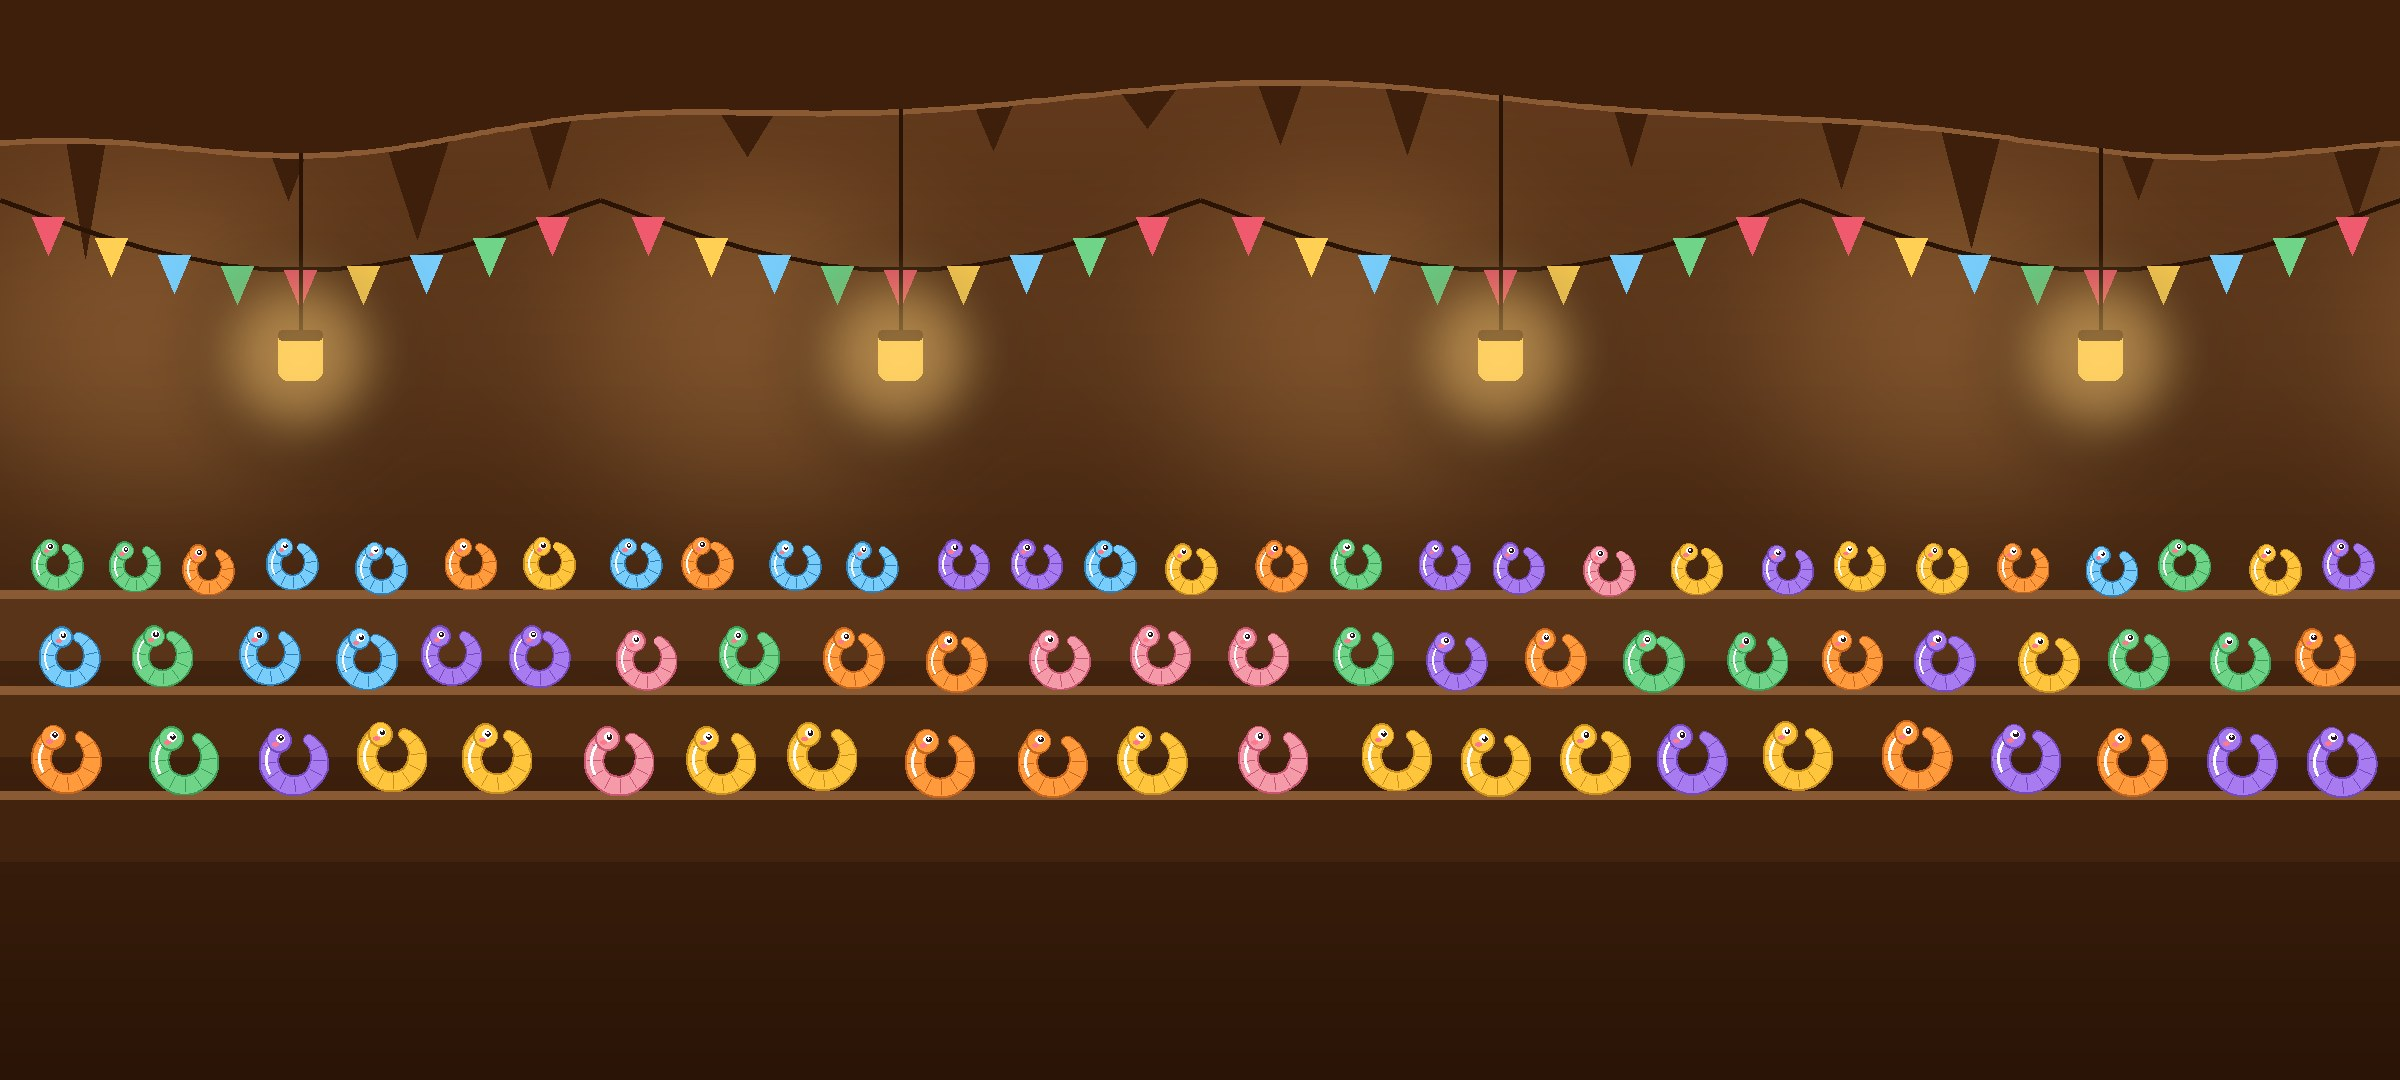
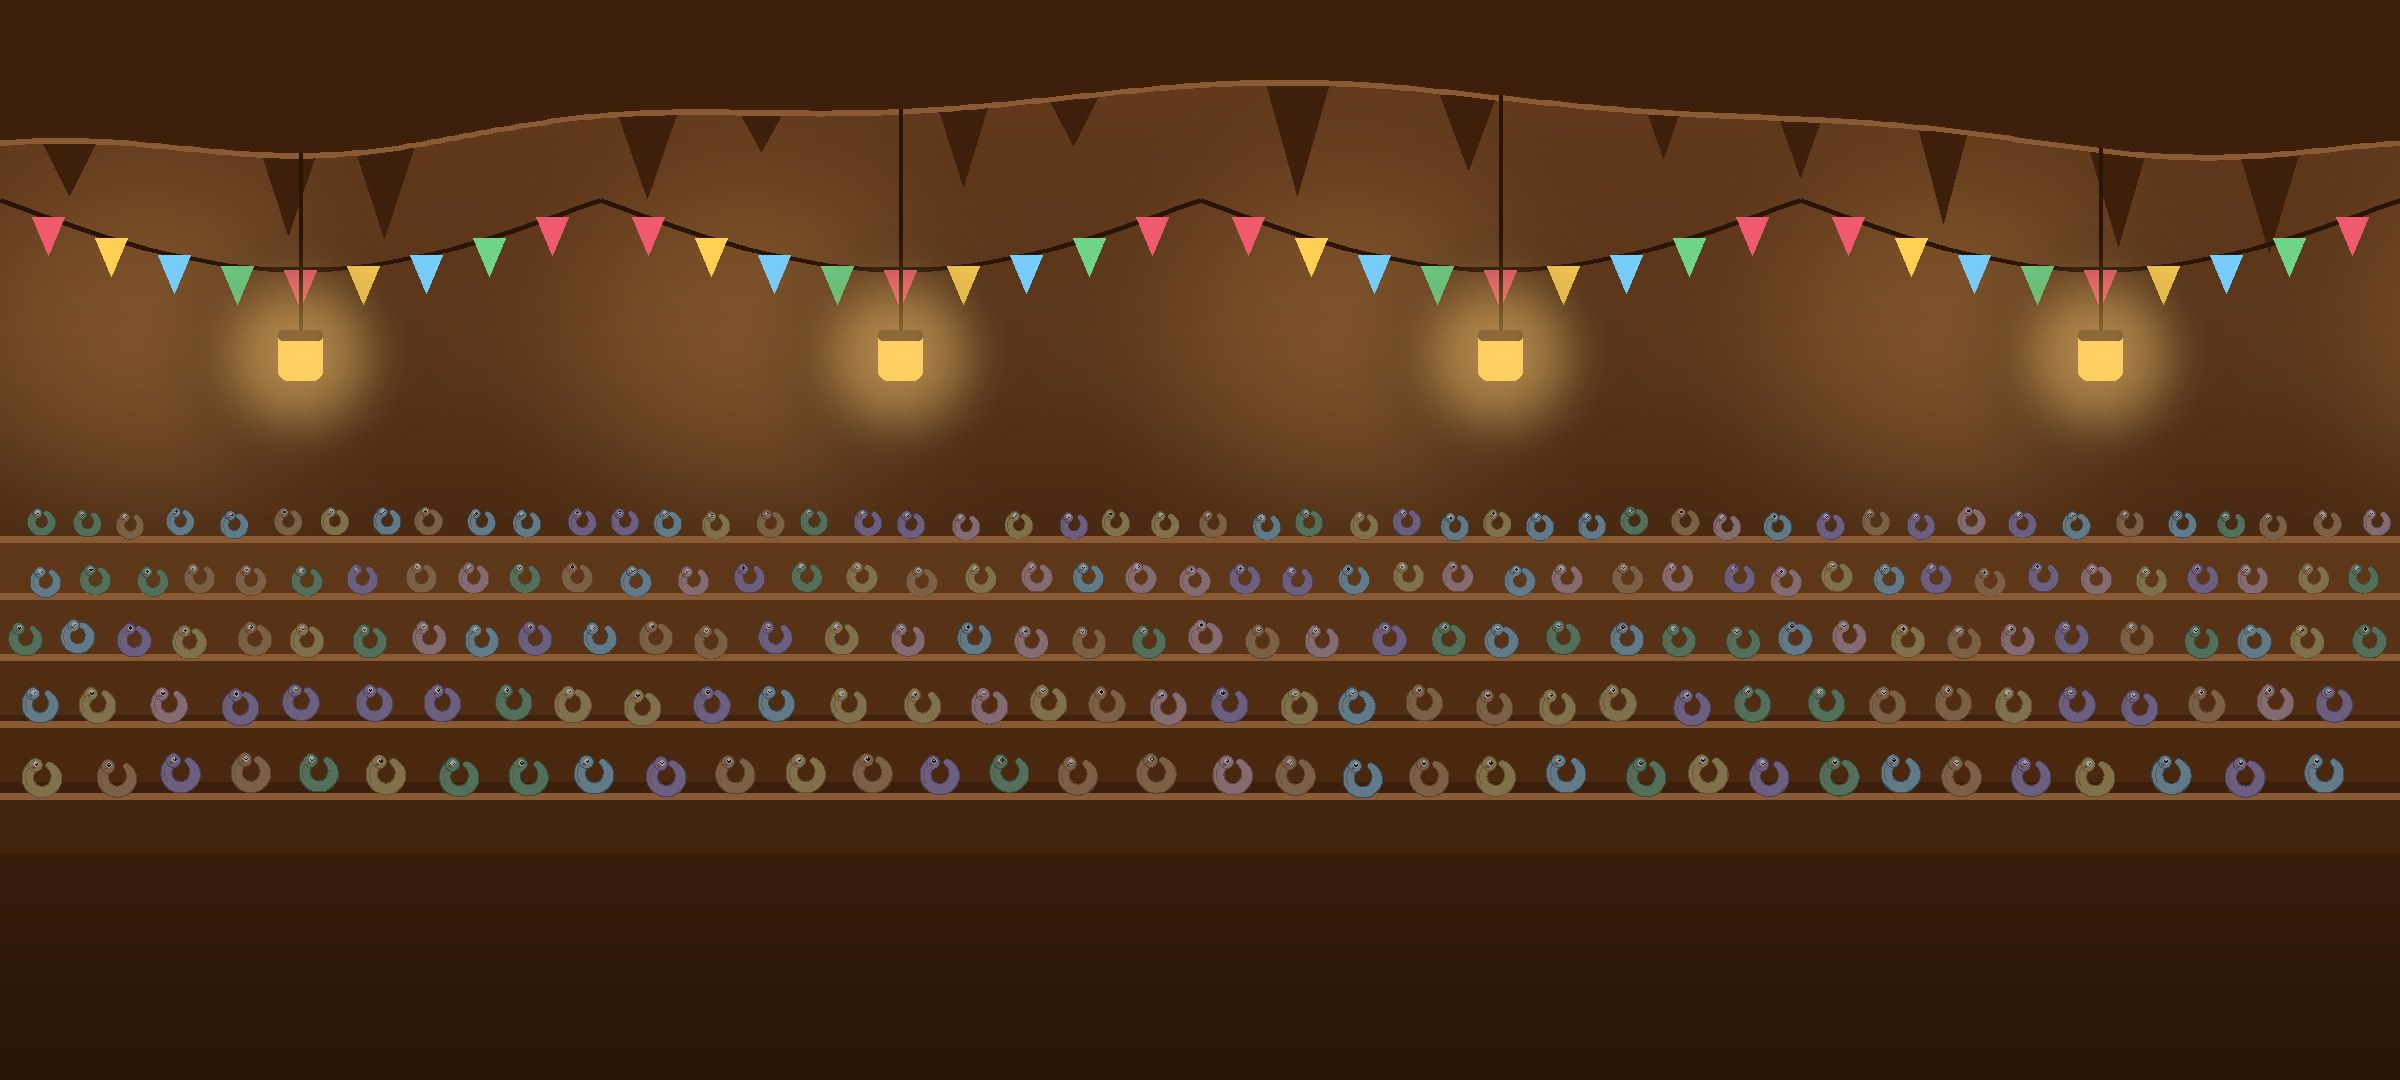
Arena: mindre og dempet publikum, så marken skiller seg ut
Claude-Session: https://claude.ai/code/session_01Fvyg5es7gUXvAHJVM5Veto

diff --git a/Util/grafikk/lag_ui.py b/Util/grafikk/lag_ui.py
@@ -634,18 +634,27 @@ def arena_bg():
     im.alpha_composite(lys)
     d = ImageDraw.Draw(im)
 
-    # tribuner: tre trinn med publikum
+    # tribuner med publikum: små og dempet, så spillerens mark skiller seg ut
     farger = [("F49AA8", "C95574"), ("FFC53D", "C9901E"), ("78CDFA", "2E7FB8"), ("6FD488", "3A9E58"),
               ("A97BF0", "7449C0"), ("FF9A3D", "C9661E")]
-    for trinn, (y0, st) in enumerate(((560, 34), (650, 40), (750, 46))):
-        d.rectangle((0, y0 + st * 0.9, W, y0 + st * 0.9 + 70), fill=hexf(["5A3418", "4E2C12", "42240E"][trinn]))
-        d.rectangle((0, y0 + st * 0.9, W, y0 + st * 0.9 + 8), fill=hexf("8A5A34"))
+    trib = Image.new("RGBA", (W, H), (0, 0, 0, 0))
+    td = ImageDraw.Draw(trib)
+    rader = ((520, 18), (575, 20), (635, 22), (700, 24), (770, 26))
+    for trinn, (y0, st) in enumerate(rader):
+        d.rectangle((0, y0 + st * 0.9, W, y0 + st * 0.9 + 60), fill=hexf(["5E3618", "573216", "502C12", "4A2810", "42240E"][trinn]))
+        d.rectangle((0, y0 + st * 0.9, W, y0 + st * 0.9 + 6), fill=hexf("8A5A34"))
         x = rng.uniform(0, 30)
-        while x < W - st:
+        while x < W - st * 2:
             f, m = farger[rng.integers(0, len(farger))]
-            mark_ring(d, x + st, y0 + st * 0.2 + rng.uniform(-4, 4), st * 0.55, st * 0.42,
-                      hexf(f), hexf(m), (255, 255, 255, 120), ansikt=True, apen=rng.uniform(40, 80))
-            x += st * 2.1 + rng.uniform(0, st * 0.6)
+            mark_ring(td, x + st, y0 + st * 0.2 + rng.uniform(-3, 3), st * 0.55, st * 0.42,
+                      hexf(f), hexf(m), (255, 255, 255, 90), ansikt=True, apen=rng.uniform(40, 80))
+            x += st * 2.3 + rng.uniform(0, st * 0.8)
+    # demp: blekere og mørkere, som om de sitter i halvmørket
+    a = np.asarray(trib).astype(float)
+    gra = a[..., :3].mean(axis=2, keepdims=True)
+    a[..., :3] = (a[..., :3] * 0.45 + gra * 0.55) * 0.62
+    im.alpha_composite(Image.fromarray(a.astype(np.uint8), "RGBA"))
+    d = ImageDraw.Draw(im)
     # tak med drypp
     tak = 120 + per(6, 40, 3)
     pts = [(0, 0)] + [(x, tak[x]) for x in range(0, W, 8)] + [(W, tak[0]), (W, 0)]
